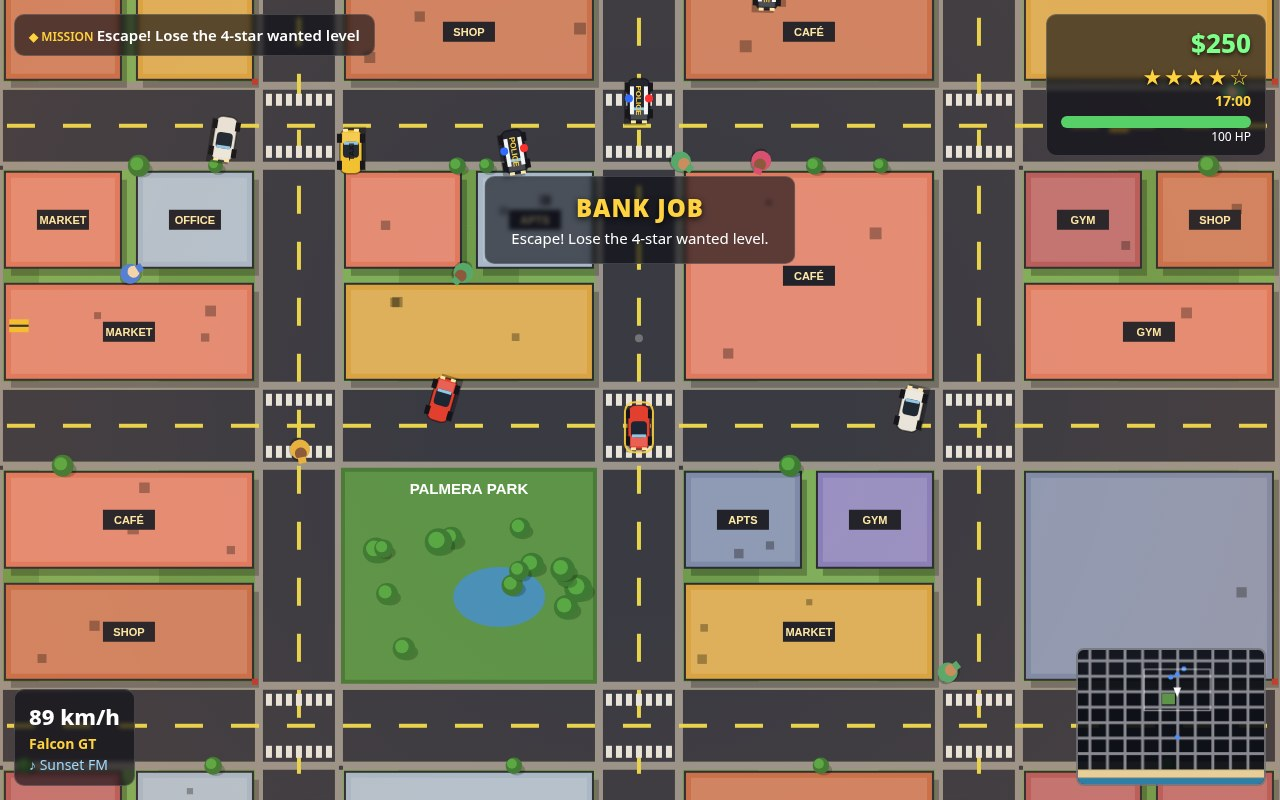
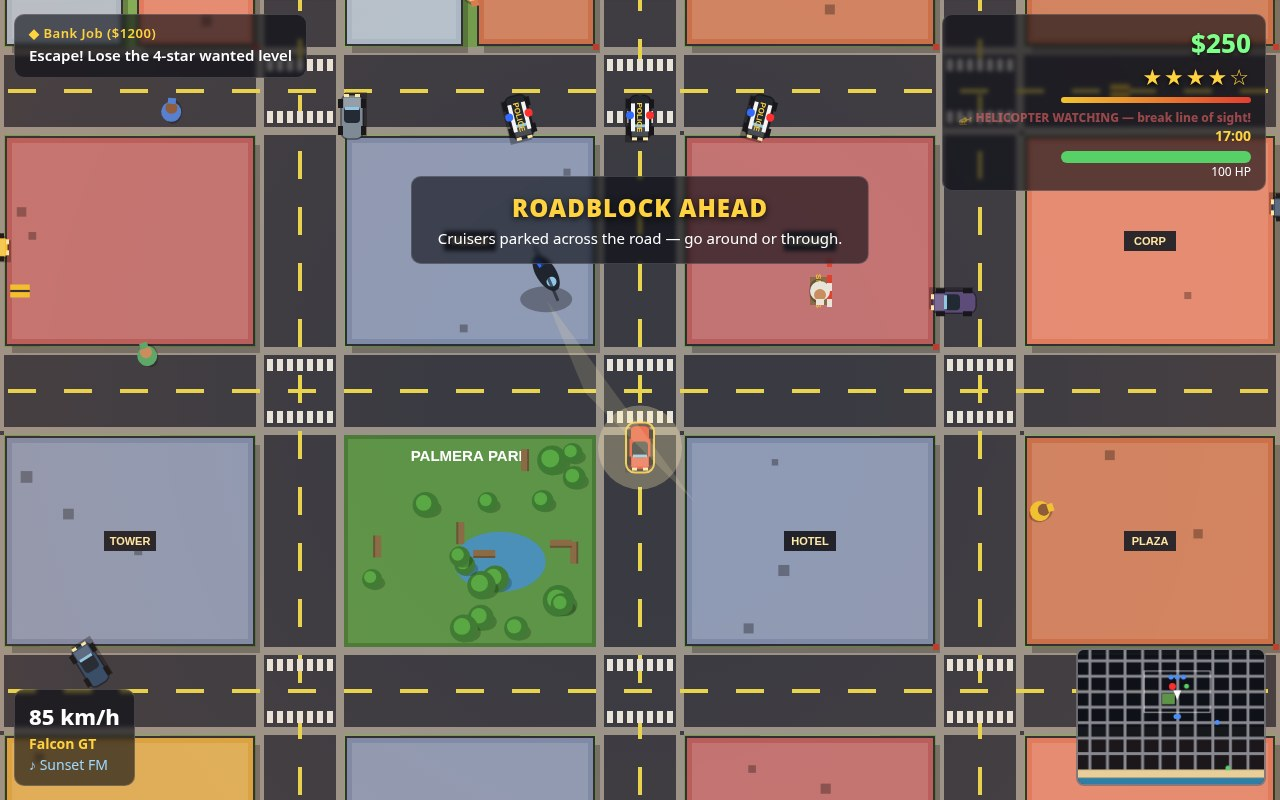
v2: re-take all 4 screenshots, cover shows helicopter chase

diff --git a/game/src/shots.js b/game/src/shots.js
@@ -44,7 +44,7 @@ const SCENES = {
       const police = game.traffic.spawnPolice(x + (i - 1) * 130, y - 300 - i * 60, Math.PI / 2);
       police.speed = 300;
     }
-    game.police.forceHeli(x + 120, y - 220);
+    game.police.forceHeli(x - 320, y - 180);
     game.police.watched = true;
     setMission(game, 4, 2);
     frameCamera(game, x, y - 40);
